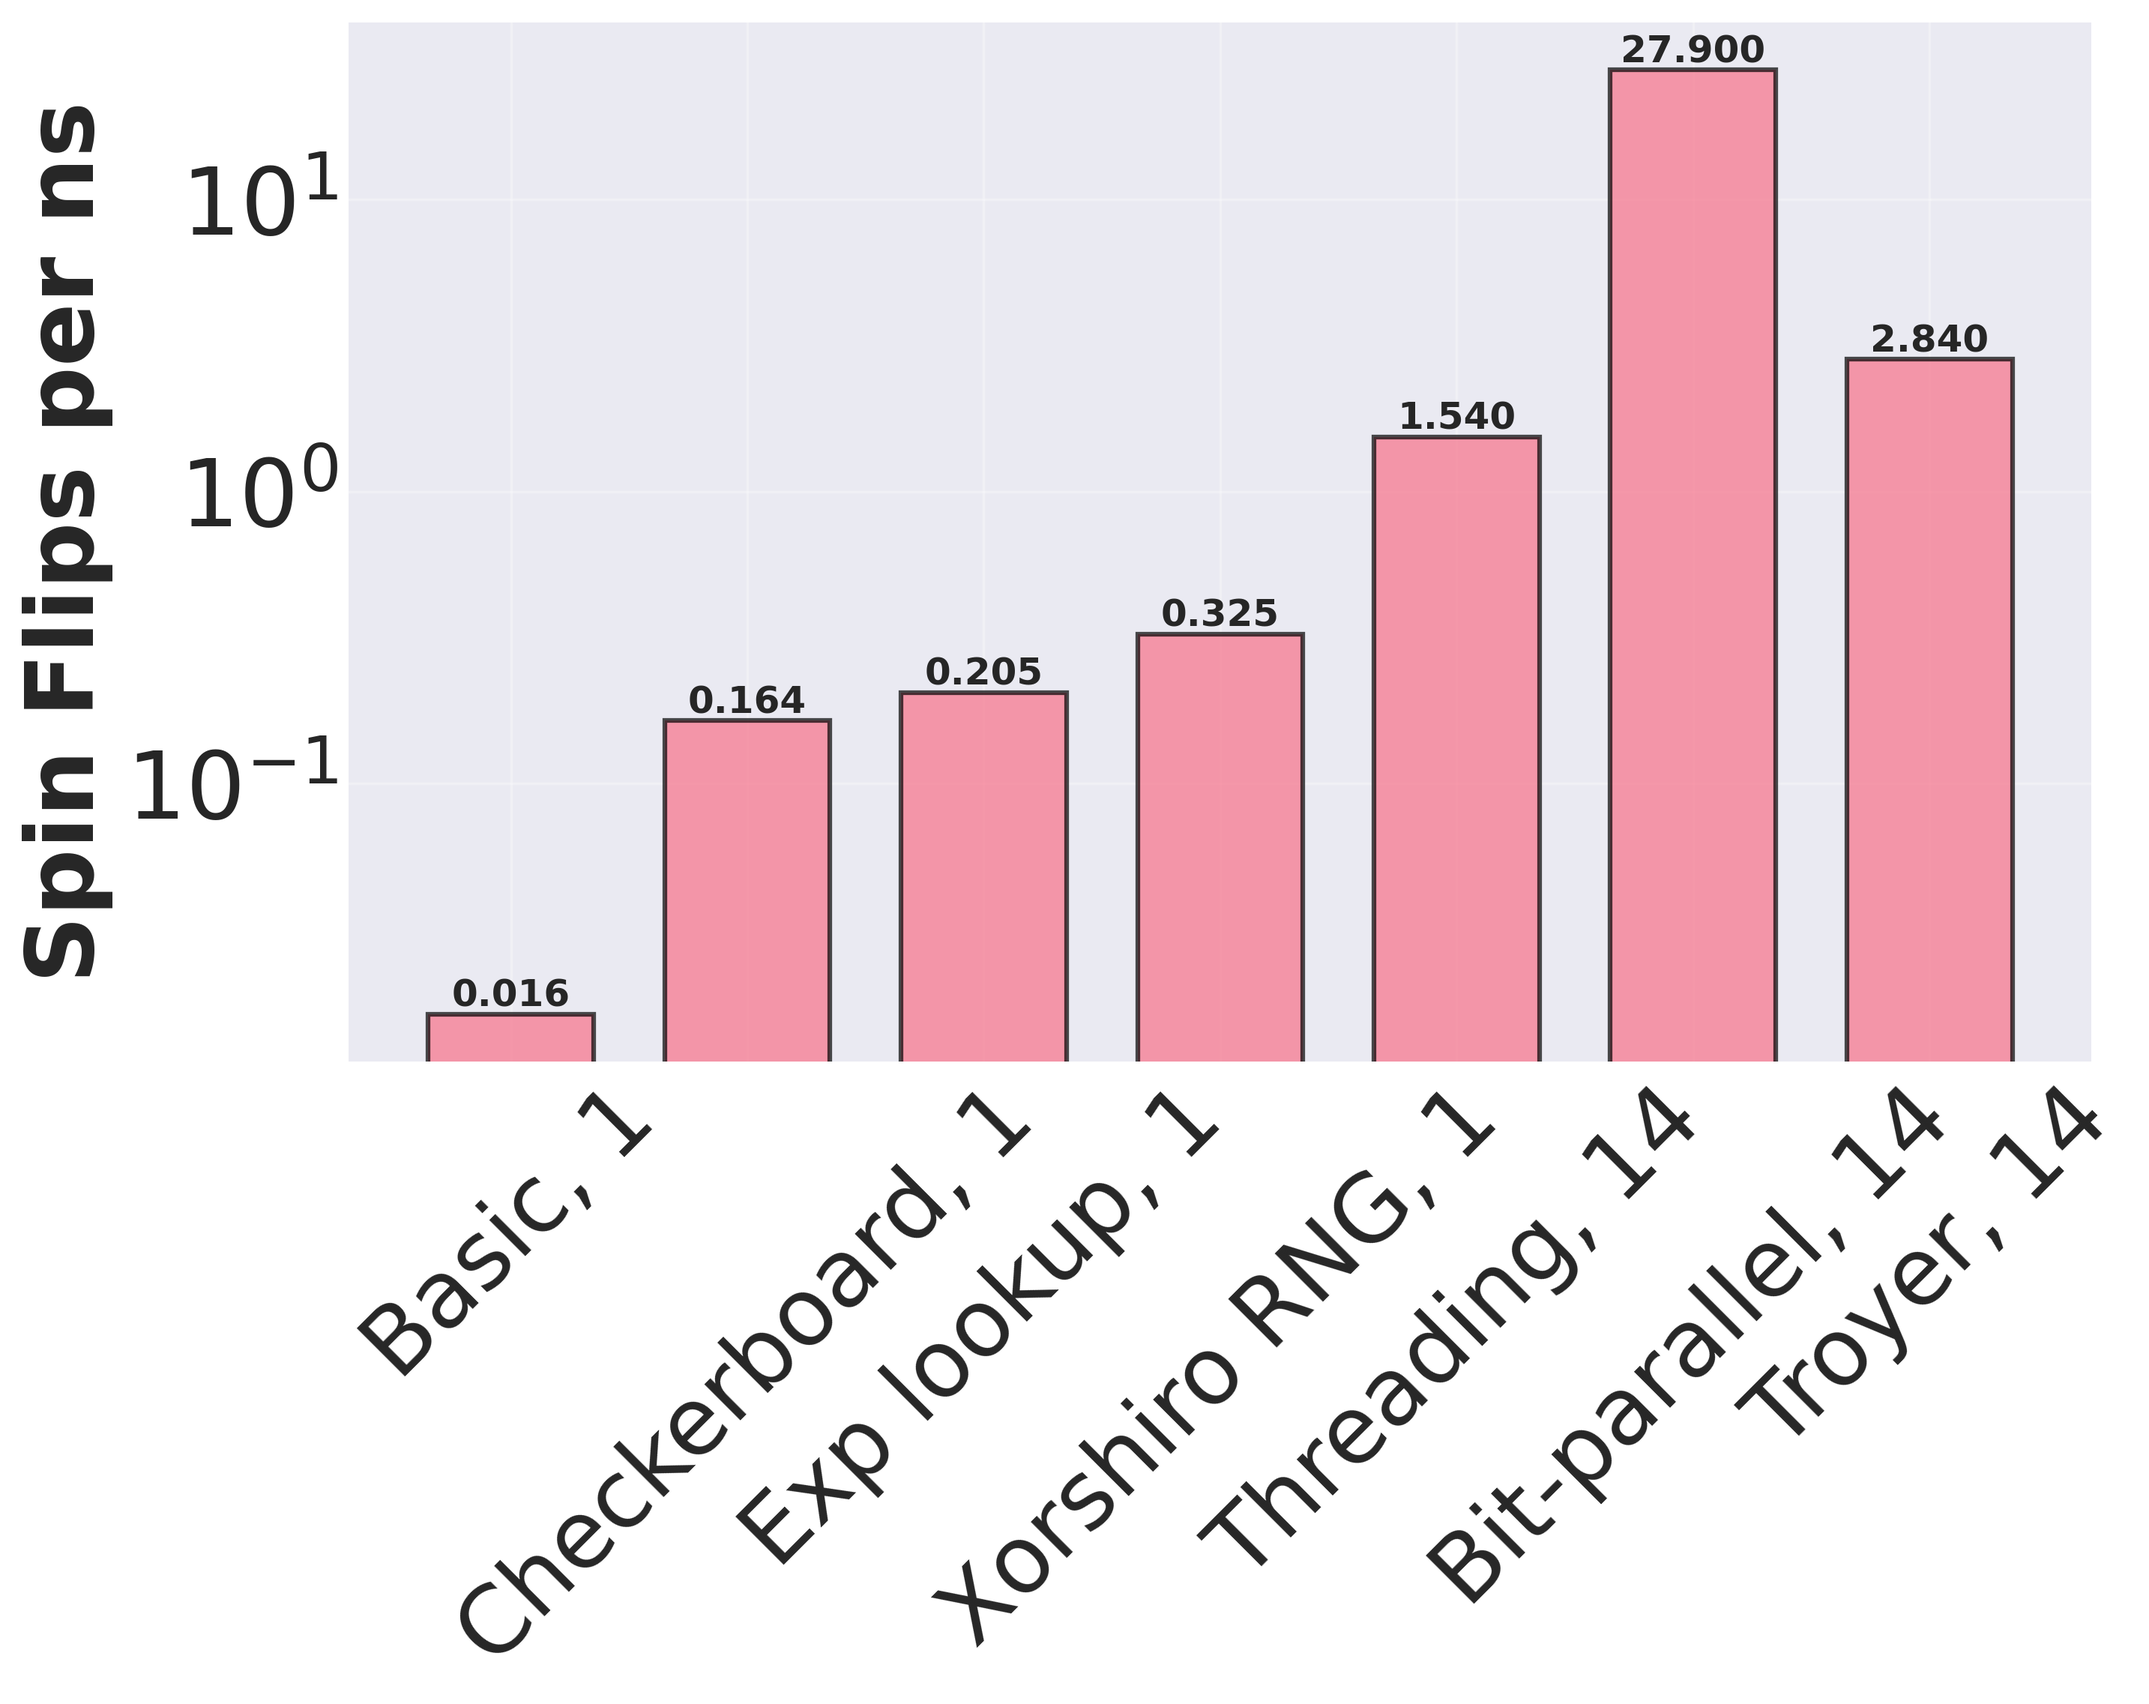
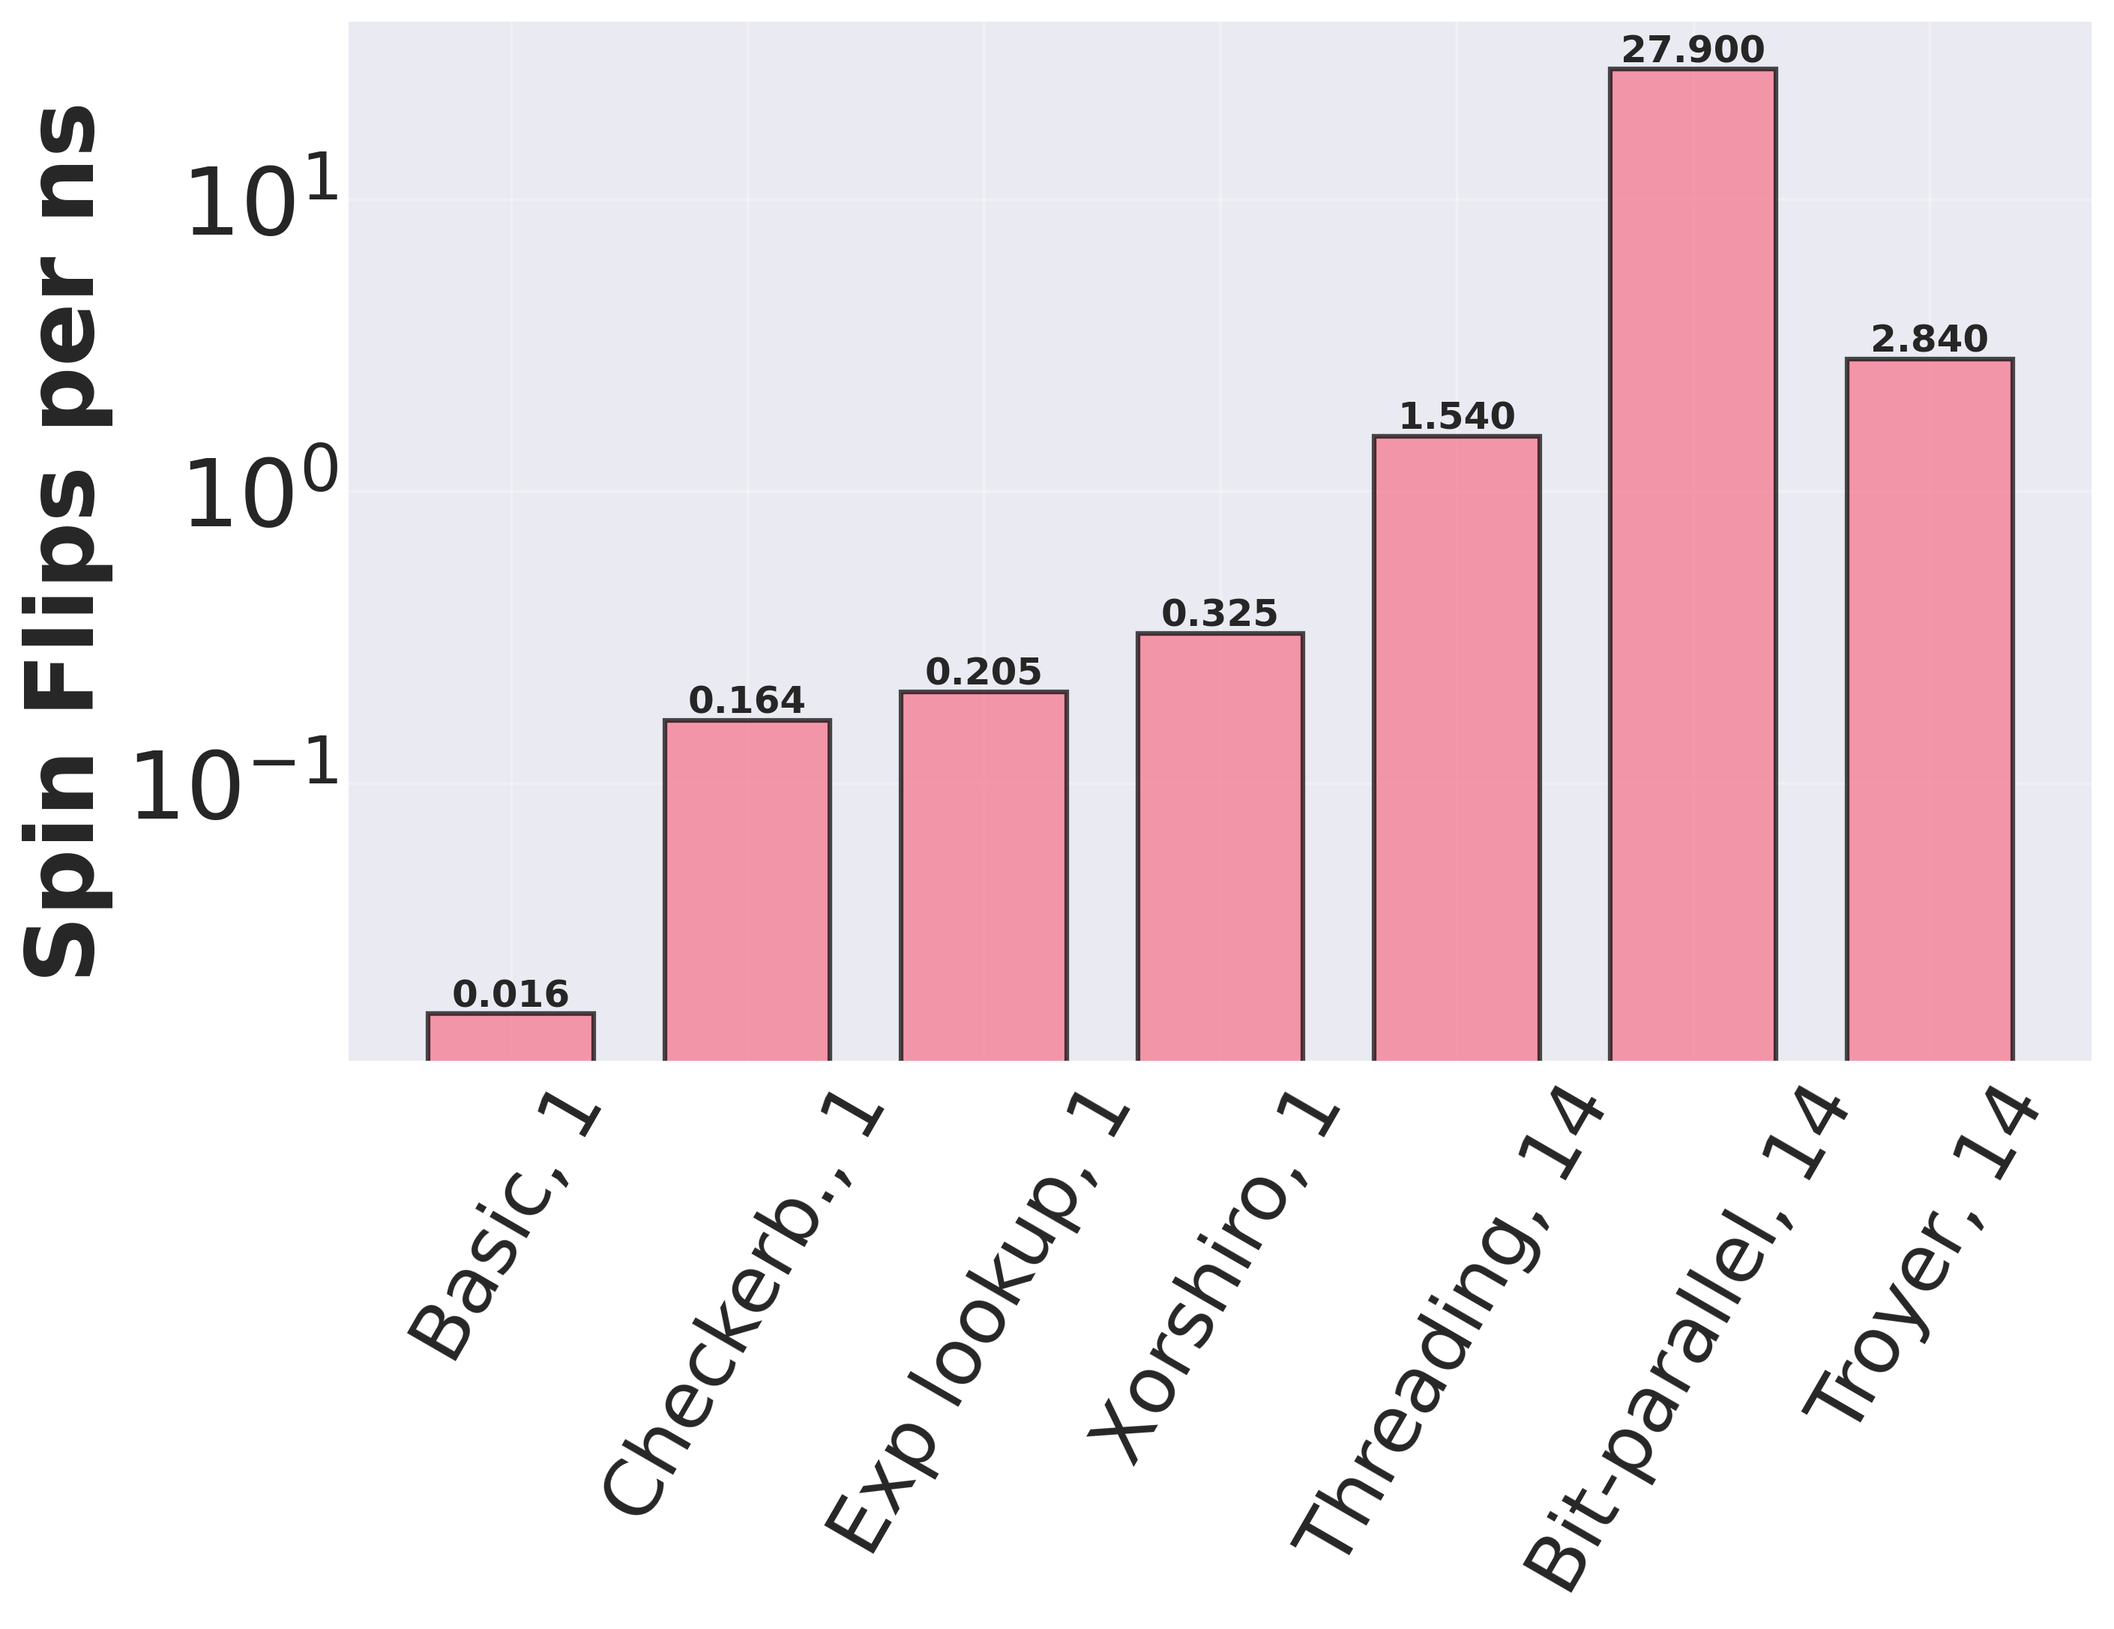
Update benchmark figure

diff --git a/benchmark.py b/benchmark.py
@@ -14,9 +14,9 @@ plt.rcParams['font.family'] = 'DejaVu Sans'
 # Data
 versions = [
     "Basic, 1",
-    "Checkerboard, 1",
+    "Checkerb., 1",
     "Exp lookup, 1",
-    "Xorshiro RNG, 1",
+    "Xorshiro, 1",
     "Threading, 14",
     "Bit-parallel, 14",
     "Troyer, 14"
@@ -68,7 +68,7 @@ for i, bar in enumerate(bars):
 # Customize the plot
 #ax1.set_title('Ising Model Performance Optimization Progress, CPU M4 Pro with 14 cores', pad=20, fontsize=16, fontweight='bold')
 ax1.set_ylabel('Spin Flips per ns', fontsize=font, fontweight='bold')
-ax1.tick_params(axis='x', rotation=45, labelsize=font)
+ax1.tick_params(axis='x', rotation=60, labelsize=25)
 ax1.set_yscale('log')
 ax1.grid(True, alpha=0.3)
 ax1.tick_params(axis='y', labelsize=font)
